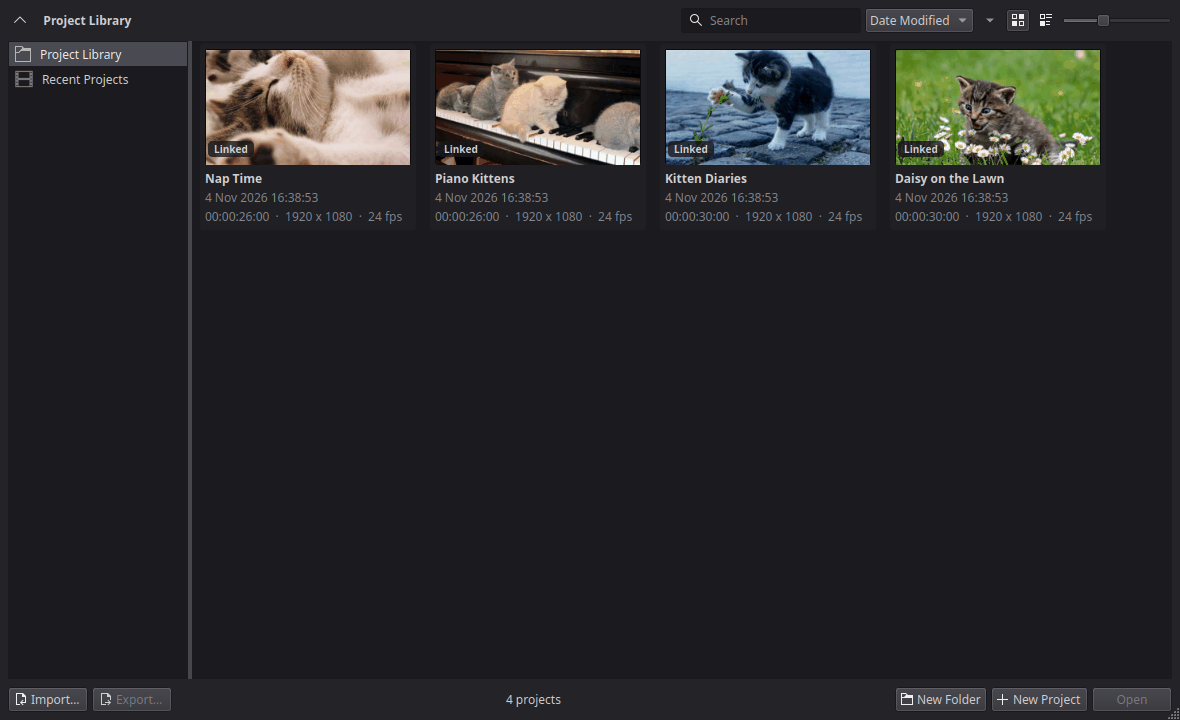
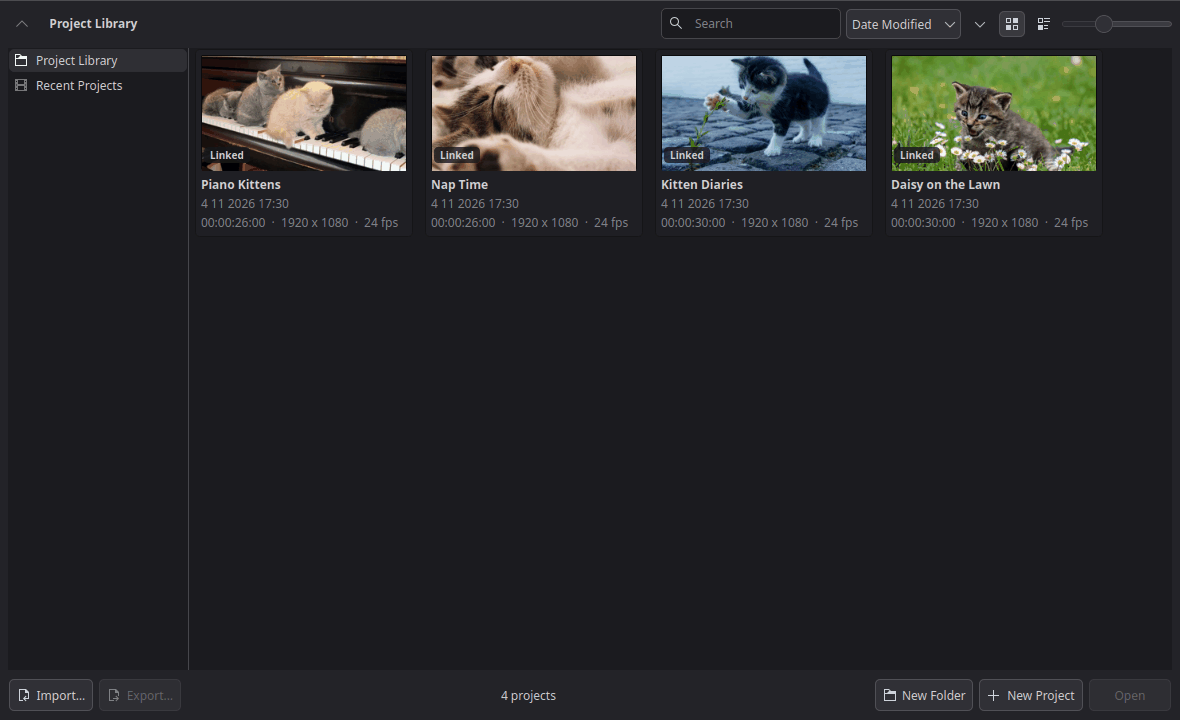
readme: screenshots in the real Breeze style
The host build uses Ubuntu's Qt without the Breeze style and fell back to Fusion. The pictures
are now taken with the AppDir from the release container, and readme_screenshots.py refuses to
run when the app cannot load Breeze.

Claude-Session: https://claude.ai/code/session_01X5N5x5ieBdJ1QWiroo1Sgc

diff --git a/scripts/readme_screenshots.py b/scripts/readme_screenshots.py
@@ -14,7 +14,7 @@ projects of tests/timeline/test_guidedemo.cpp (readme-edit, readme-compositing a
 readme-color.kkproj) and `kinoklip --screenshot <target> <png> <project>`.
 
 Usage (from the repository root, after building the app and the tests into build/):
-  scripts/readme_screenshots.py [--app build/kinoklip] [--tests build] [--work build/readme]
+  scripts/readme_screenshots.py [--app dist/kinoklip-x86_64/AppRun] [--tests build] [--work build/readme]
                                 [--only <name>] [--keep] [--delay 30000]
 
 Runs under xvfb-run (1920x1080x24) with a clean environment and a temporary HOME, so the
@@ -113,6 +113,17 @@ def store(raw: Path, out: Path) -> None:
           f"{out.stat().st_size // 1024} KB")
 
 
+def breeze_available(app: Path) -> bool:
+    """True when the app can load the Breeze widget style: bundled next to it (an AppDir), on
+    QT_PLUGIN_PATH or in the system's Qt 6 plugin folders. Without it Qt silently uses Fusion."""
+    folders = [app.parent / "usr" / "lib" / "qt" / "plugins" / "styles",
+               app.parent.parent / "lib" / "qt" / "plugins" / "styles",
+               Path("/usr/lib/x86_64-linux-gnu/qt6/plugins/styles"),
+               Path("/usr/lib/qt6/plugins/styles"), Path("/usr/lib64/qt6/plugins/styles")]
+    folders += [Path(p) / "styles" for p in os.environ.get("QT_PLUGIN_PATH", "").split(":") if p]
+    return any(folder.glob("breeze*.so") for folder in folders if folder.is_dir())
+
+
 def main() -> None:
     parser = argparse.ArgumentParser(description=__doc__.splitlines()[0])
     parser.add_argument("--app", default=str(ROOT / "build" / "kinoklip"))
@@ -124,6 +135,11 @@ def main() -> None:
                         help="ms to wait for thumbnails and waveforms before each shot")
     args = parser.parse_args()
     guide.DELAY_MS = args.delay
+    if not breeze_available(Path(args.app).resolve()):
+        sys.exit("readme_screenshots.py: no Breeze style for " + args.app + ". The app would fall "
+                 "back to Fusion and the pictures would not show the real look. Use an AppDir "
+                 "(scripts/package_linux.sh --no-appimage, then --app dist/kinoklip-x86_64/AppRun) "
+                 "or install the Qt 6 Breeze style.")
 
     if "KK_GUIDE_UNDER_XVFB" not in os.environ:
         if not shutil.which("xvfb-run"):
